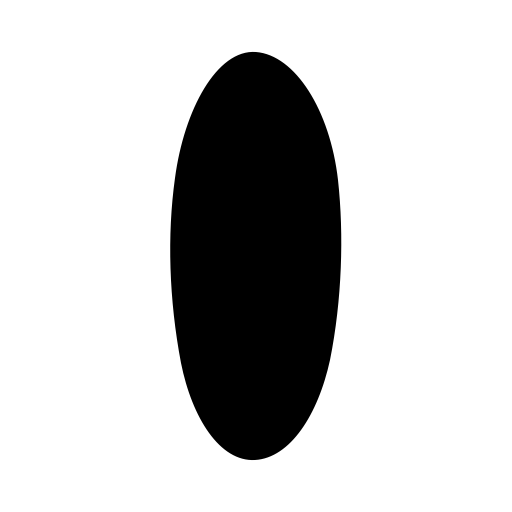
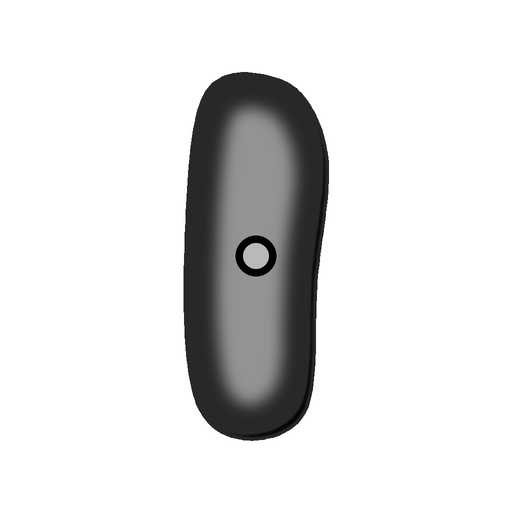
feat(app): redraw hold assets with shading and outlines, render on wall panel

Changed region(s): [[0.3125, 0.0938, 0.6875, 0.9062]]

diff --git a/src/components/dex.tsx b/src/components/dex.tsx
@@ -1,8 +1,12 @@
-import { Image, Pressable, StyleSheet, Text, View } from 'react-native';
+import { useEffect, useRef } from 'react';
+import { Animated, Image, Pressable, StyleSheet, Text, View } from 'react-native';
+
+const AnimatedPressable = Animated.createAnimatedComponent(Pressable);
 import { type Gym, formatNo } from '../data/gyms';
 import type { DexState } from '../store/dex';
+import { colors } from '../theme';
 
-export const RED = '#d7263d';
+export const RED = colors.accent;
 export const CHECKIN_METERS = 100;
 export const SKIP_DISTANCE_CHECK = false;
 
@@ -43,14 +47,19 @@ export function Progress({ value, total, color = RED, track = '#eee' }: { value:
   );
 }
 
-export function GymCard({ gym, dex, size, onPress }: { gym: Gym; dex: DexState; size: number; onPress: () => void }) {
+export function GymCard({ gym, dex, size, onPress, delay }: { gym: Gym; dex: DexState; size: number; onPress: () => void; delay?: number }) {
   const count = dex.visits.filter((v) => v.gymId === gym.id).length;
   const visited = count > 0;
   const photo = visited ? dex.photos[gym.id] : undefined;
+  const rise = useRef(new Animated.Value(delay === undefined ? 1 : 0)).current;
+  useEffect(() => {
+    if (delay === undefined) return;
+    Animated.timing(rise, { toValue: 1, duration: 260, delay, useNativeDriver: true }).start();
+  }, [delay, rise]);
   return (
-    <Pressable style={[styles.cell, { width: size }]} onPress={onPress}>
+    <AnimatedPressable style={[styles.cell, { width: size, opacity: rise, transform: [{ translateY: rise.interpolate({ inputRange: [0, 1], outputRange: [10, 0] }) }] }]} onPress={onPress}>
       <View style={[styles.card, { height: size * 1.1 }, visited && styles.cardVisited]}>
-        {photo ? <Image source={{ uri: photo }} style={styles.photo} /> : <Silhouette size={size * 0.8} visited={visited} seed={gym.id} region={gym.region1} />}
+        {photo ? <Image source={{ uri: photo }} style={styles.photo} /> : <WallPanel width={size - 4} height={size * 1.1 - 4} visited={visited} seed={gym.id} region={gym.region1} />}
         <Text style={[styles.no, visited && styles.noVisited]}>{formatNo(gym.no)}</Text>
         {visited && (
           <View style={styles.stamp}>
@@ -61,7 +70,7 @@ export function GymCard({ gym, dex, size, onPress }: { gym: Gym; dex: DexState; 
       <Text style={[styles.name, !visited && styles.nameDim]} numberOfLines={2}>
         {gym.name}
       </Text>
-    </Pressable>
+    </AnimatedPressable>
   );
 }
 
@@ -92,16 +101,34 @@ export function GymRow({ gym, dex, meta, onPress }: { gym: Gym; dex: DexState; m
 
 const HOLDS = [
   require('../../assets/holds/jug.png'),
-  require('../../assets/holds/crimp.png'),
   require('../../assets/holds/sloper.png'),
+  require('../../assets/holds/crimp.png'),
   require('../../assets/holds/pinch.png'),
   require('../../assets/holds/pocket.png'),
   require('../../assets/holds/volume.png'),
   require('../../assets/holds/foot.png'),
   require('../../assets/holds/edge.png'),
+  require('../../assets/holds/macro.png'),
+  require('../../assets/holds/dual.png'),
+  require('../../assets/holds/screwon.png'),
+  require('../../assets/holds/cube.png'),
+];
+const OUTLINES = [
+  require('../../assets/holds/outline/jug.png'),
+  require('../../assets/holds/outline/sloper.png'),
+  require('../../assets/holds/outline/crimp.png'),
+  require('../../assets/holds/outline/pinch.png'),
+  require('../../assets/holds/outline/pocket.png'),
+  require('../../assets/holds/outline/volume.png'),
+  require('../../assets/holds/outline/foot.png'),
+  require('../../assets/holds/outline/edge.png'),
+  require('../../assets/holds/outline/macro.png'),
+  require('../../assets/holds/outline/dual.png'),
+  require('../../assets/holds/outline/screwon.png'),
+  require('../../assets/holds/outline/cube.png'),
 ];
 
-const DIM = '#3a3a44';
+const DIM = '#b4b8bf';
 const REGION_COLORS: Record<string, string> = {
   서울: '#e63946',
   경기: '#f4743b',
@@ -132,16 +159,43 @@ function hash(seed: string) {
 }
 
 export function Silhouette({ size, visited, seed, region }: { size: number; visited: boolean; seed: string; region: string }) {
-  const source = HOLDS[hash(seed) % HOLDS.length];
+  const index = hash(seed) % HOLDS.length;
+  const source = visited ? HOLDS[index] : OUTLINES[index];
   return <Image source={source} style={{ width: size, height: size, tintColor: visited ? regionColor(region) : DIM }} resizeMode="contain" />;
+}
+
+const PANEL_COLS = 4;
+
+export function WallPanel({ width, height, visited, seed, region, hold }: { width: number; height: number; visited: boolean; seed: string; region: string; hold?: number }) {
+  const step = width / PANEL_COLS;
+  const rows = Math.max(2, Math.round(height / step));
+  const dots: { x: number; y: number }[] = [];
+  for (let r = 0; r < rows; r++) for (let c = 0; c < PANEL_COLS; c++) dots.push({ x: step * (c + 0.5), y: (height / rows) * (r + 0.5) });
+  const holdSize = hold ?? Math.min(width, height) * 0.72;
+  return (
+    <View style={[styles.panel, { width, height }, visited ? styles.panelVisited : styles.panelEmpty]}>
+      {dots.map((d, i) => (
+        <View key={i} style={[styles.nut, visited ? styles.nutVisited : styles.nutEmpty, { left: d.x - 2.5, top: d.y - 2.5 }]} />
+      ))}
+      {visited && <View style={[styles.holdShadow, { width: holdSize * 0.9, height: holdSize * 0.5, borderRadius: holdSize * 0.3, top: height / 2 + holdSize * 0.1 }]} />}
+      <Silhouette size={holdSize} visited={visited} seed={seed} region={region} />
+    </View>
+  );
 }
 
 const styles = StyleSheet.create({
   track: { height: 6, borderRadius: 3, overflow: 'hidden' },
   fill: { height: '100%', borderRadius: 3 },
   cell: { gap: 5 },
-  card: { borderRadius: 14, backgroundColor: '#eceef2', overflow: 'hidden', alignItems: 'center', justifyContent: 'center', borderWidth: 2, borderColor: 'transparent' },
-  cardVisited: { borderColor: RED, backgroundColor: '#fff3d6' },
+  card: { borderRadius: 14, backgroundColor: '#e8e9ec', overflow: 'hidden', alignItems: 'center', justifyContent: 'center', borderWidth: 2, borderColor: 'transparent' },
+  cardVisited: { borderColor: RED, backgroundColor: '#ecdfc8' },
+  panel: { overflow: 'hidden', alignItems: 'center', justifyContent: 'center' },
+  panelVisited: { backgroundColor: '#ecdfc8' },
+  panelEmpty: { backgroundColor: '#e8e9ec' },
+  nut: { position: 'absolute', width: 5, height: 5, borderRadius: 2.5 },
+  nutVisited: { backgroundColor: 'rgba(90,70,40,0.22)' },
+  nutEmpty: { backgroundColor: 'rgba(0,0,0,0.08)' },
+  holdShadow: { position: 'absolute', backgroundColor: 'rgba(60,40,10,0.18)' },
   photo: { width: '100%', height: '100%' },
   no: { position: 'absolute', left: 8, top: 6, fontSize: 11, fontWeight: '700', color: '#8a8a94' },
   noVisited: { color: '#fff', textShadowColor: 'rgba(0,0,0,0.6)', textShadowRadius: 3 },

diff --git a/scripts/holds.py b/scripts/holds.py
@@ -1,0 +1,126 @@
+import math, os, sys
+from PIL import Image, ImageDraw, ImageFilter, ImageChops
+
+OUT = sys.argv[1]
+S = 1024  # supersample
+F = 512   # final
+
+def catmull(points, n=24):
+    pts = []
+    k = len(points)
+    for i in range(k):
+        p0, p1, p2, p3 = points[(i - 1) % k], points[i], points[(i + 1) % k], points[(i + 2) % k]
+        for t in [j / n for j in range(n)]:
+            t2, t3 = t * t, t * t * t
+            x = 0.5 * ((2 * p1[0]) + (-p0[0] + p2[0]) * t + (2 * p0[0] - 5 * p1[0] + 4 * p2[0] - p3[0]) * t2 + (-p0[0] + 3 * p1[0] - 3 * p2[0] + p3[0]) * t3)
+            y = 0.5 * ((2 * p1[1]) + (-p0[1] + p2[1]) * t + (2 * p0[1] - 5 * p1[1] + 4 * p2[1] - p3[1]) * t2 + (-p0[1] + 3 * p1[1] - 3 * p2[1] + p3[1]) * t3)
+            pts.append((x * S, y * S))
+    return pts
+
+def polygon(points):
+    return [(x * S, y * S) for x, y in points]
+
+# shapes in unit coords (0..1), y down. body polygon + optional holes (circles: cx, cy, r) + flat faces
+HOLDS = {
+    'jug': dict(body=catmull([(0.12, 0.42), (0.3, 0.26), (0.55, 0.24), (0.8, 0.3), (0.9, 0.5), (0.8, 0.72), (0.55, 0.8), (0.3, 0.76), (0.14, 0.62)]), holes=[(0.5, 0.56, 0.045)]),
+    'sloper': dict(body=catmull([(0.1, 0.6), (0.22, 0.4), (0.5, 0.3), (0.78, 0.4), (0.9, 0.6), (0.8, 0.72), (0.5, 0.76), (0.2, 0.72)]), holes=[(0.5, 0.6, 0.04)]),
+    'crimp': dict(body=catmull([(0.1, 0.5), (0.2, 0.42), (0.5, 0.4), (0.8, 0.42), (0.9, 0.5), (0.85, 0.6), (0.5, 0.64), (0.15, 0.6)]), holes=[(0.5, 0.53, 0.035)]),
+    'pinch': dict(body=catmull([(0.4, 0.18), (0.56, 0.16), (0.64, 0.3), (0.62, 0.55), (0.6, 0.8), (0.48, 0.86), (0.38, 0.78), (0.36, 0.5)]), holes=[(0.5, 0.5, 0.04)]),
+    'pocket': dict(body=catmull([(0.18, 0.4), (0.4, 0.26), (0.65, 0.28), (0.84, 0.44), (0.82, 0.68), (0.6, 0.78), (0.34, 0.76), (0.16, 0.6)]), holes=[(0.38, 0.48, 0.07), (0.6, 0.5, 0.07)]),
+    'volume': dict(body=polygon([(0.12, 0.78), (0.5, 0.2), (0.88, 0.78)]), holes=[(0.5, 0.62, 0.04)], faces=[polygon([(0.5, 0.2), (0.88, 0.78), (0.5, 0.78)])]),
+    'foot': dict(body=catmull([(0.3, 0.48), (0.44, 0.4), (0.62, 0.42), (0.7, 0.52), (0.64, 0.62), (0.46, 0.64), (0.32, 0.58)]), holes=[(0.5, 0.52, 0.03)]),
+    'edge': dict(body=polygon([(0.14, 0.62), (0.2, 0.4), (0.86, 0.3), (0.9, 0.5), (0.84, 0.66), (0.2, 0.7)]), holes=[(0.52, 0.5, 0.04)], faces=[polygon([(0.2, 0.4), (0.86, 0.3), (0.84, 0.44), (0.18, 0.52)])]),
+    'macro': dict(body=catmull([(0.1, 0.5), (0.18, 0.3), (0.36, 0.22), (0.5, 0.3), (0.66, 0.2), (0.86, 0.3), (0.9, 0.55), (0.78, 0.76), (0.5, 0.82), (0.22, 0.74)]), holes=[(0.36, 0.52, 0.04), (0.66, 0.5, 0.04)]),
+    'dual': dict(body=catmull([(0.1, 0.5), (0.2, 0.36), (0.4, 0.34), (0.5, 0.44), (0.6, 0.34), (0.82, 0.36), (0.9, 0.52), (0.8, 0.66), (0.6, 0.68), (0.5, 0.6), (0.4, 0.68), (0.2, 0.66)]), holes=[(0.3, 0.52, 0.04), (0.7, 0.52, 0.04)]),
+    'screwon': dict(body=catmull([(0.3, 0.36), (0.5, 0.32), (0.7, 0.36), (0.74, 0.5), (0.7, 0.64), (0.5, 0.68), (0.3, 0.64), (0.26, 0.5)]), holes=[(0.42, 0.5, 0.03), (0.58, 0.5, 0.03)]),
+    'cube': dict(body=polygon([(0.5, 0.16), (0.86, 0.36), (0.86, 0.72), (0.5, 0.88), (0.14, 0.72), (0.14, 0.36)]), holes=[(0.5, 0.58, 0.04)], faces=[polygon([(0.5, 0.16), (0.86, 0.36), (0.5, 0.52), (0.14, 0.36)]), polygon([(0.5, 0.52), (0.86, 0.36), (0.86, 0.72), (0.5, 0.88)])]),
+}
+
+def mask_from(draw_fn):
+    m = Image.new('L', (S, S), 0)
+    d = ImageDraw.Draw(m)
+    draw_fn(d)
+    return m
+
+def erode(m, px):
+    if px <= 0:
+        return m
+    return m.filter(ImageFilter.GaussianBlur(px * 0.7)).point(lambda v: 255 if v >= 252 else 0)
+
+def shift(m, dx, dy):
+    return ImageChops.offset(m, dx, dy)
+
+def render(name, spec):
+    body = mask_from(lambda d: d.polygon(spec['body'], fill=255))
+    alpha = Image.new('L', (S, S), 0)
+    # base
+    alpha.paste(215, mask=body)
+    # faces (flat volumes): darker/lighter planes
+    for i, face in enumerate(spec.get('faces', [])):
+        fm = mask_from(lambda d, f=face: d.polygon(f, fill=255))
+        fm = ImageChops.multiply(fm, body)
+        alpha.paste(150 if i == 0 else 255, mask=fm)
+    if not spec.get('faces'):
+        # highlight: eroded body shifted up-left
+        hi = ImageChops.multiply(erode(body, 45), shift(erode(body, 20), -35, -35))
+        hi = hi.filter(ImageFilter.GaussianBlur(14))
+        alpha = ImageChops.add(alpha, Image.eval(hi, lambda v: 0))  # no-op keep type
+        a = alpha.load(); h = hi.load()
+        # blend lighter: alpha = alpha - hi*0.4
+        hi_scaled = Image.eval(hi, lambda v: int(v * 0.42))
+        alpha = ImageChops.subtract(alpha, hi_scaled)
+        # shadow rim bottom-right
+        rim = ImageChops.subtract(body, shift(erode(body, 5), -11, -11))
+        rim = ImageChops.multiply(rim, body).filter(ImageFilter.GaussianBlur(5))
+        alpha = ImageChops.lighter(alpha, ImageChops.multiply(rim, Image.new('L', (S, S), 255)))
+    # bolt holes: dark ring + light center
+    for (cx, cy, r) in spec.get('holes', []):
+        ring = mask_from(lambda d: d.ellipse([(cx - r) * S, (cy - r) * S, (cx + r) * S, (cy + r) * S], fill=255))
+        inner = mask_from(lambda d: d.ellipse([(cx - r * 0.62) * S, (cy - r * 0.62) * S, (cx + r * 0.62) * S, (cy + r * 0.62) * S], fill=255))
+        alpha.paste(255, mask=ring)
+        alpha.paste(70, mask=inner)
+    # keep only inside body
+    alpha = ImageChops.multiply(alpha, body)
+    out = Image.new('RGBA', (S, S), (0, 0, 0, 0))
+    out.putalpha(alpha)
+    out = out.resize((F, F), Image.LANCZOS)
+    out.save(os.path.join(OUT, f'{name}.png'))
+
+    # outline (unvisited): dashed stroke + faint fill
+    stroke = ImageChops.subtract(body, erode(body, 8))
+    # dash by polar angle around centroid
+    bbox = body.getbbox(); cx = (bbox[0] + bbox[2]) / 2; cy = (bbox[1] + bbox[3]) / 2
+    dash = Image.new('L', (S, S), 0)
+    dd = ImageDraw.Draw(dash)
+    steps = 28
+    for i in range(steps):
+        if i % 2 == 0:
+            a0 = 360 / steps * i; a1 = a0 + 360 / steps * 0.72
+            dd.pieslice([cx - S, cy - S, cx + S, cy + S], a0, a1, fill=255)
+    stroke = ImageChops.multiply(stroke, dash)
+    oalpha = Image.new('L', (S, S), 0)
+    oalpha.paste(60, mask=erode(body, 8))
+    oalpha = ImageChops.lighter(oalpha, stroke)
+    o = Image.new('RGBA', (S, S), (0, 0, 0, 0))
+    o.putalpha(oalpha)
+    o = o.resize((F, F), Image.LANCZOS)
+    o.save(os.path.join(OUT, 'outline', f'{name}.png'))
+
+os.makedirs(os.path.join(OUT, 'outline'), exist_ok=True)
+for name, spec in HOLDS.items():
+    render(name, spec)
+
+# contact sheet: tinted preview
+colors = ['#e63946', '#f4743b', '#2b7fd3', '#2aa84a', '#8f3fd8', '#12a3a0']
+names = list(HOLDS.keys())
+cell = 180
+sheet = Image.new('RGB', (cell * 6, cell * 4), '#f5f6f7')
+for i, name in enumerate(names):
+    for row, (folder, color) in enumerate([('', colors[i % len(colors)]), ('outline', '#9ca3af')]):
+        img = Image.open(os.path.join(OUT, folder, f'{name}.png')).convert('RGBA').resize((cell - 20, cell - 20), Image.LANCZOS)
+        tint = Image.new('RGBA', img.size, color)
+        tint.putalpha(img.getchannel('A'))
+        x = (i % 6) * cell + 10; y = ((i // 6) * 2 + row) * cell + 10
+        sheet.paste(tint, (x, y), tint)
+sheet.save(os.path.join(OUT, 'sheet.png'))
+print('done', len(names))
